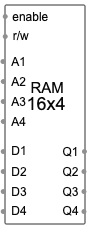
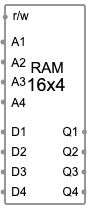
-empty-

diff --git a/shapes/data/global/digital/memory/16x4-RAM.js b/shapes/data/global/digital/memory/16x4-RAM.js
@@ -13,88 +13,82 @@ var digital_memory_16x4_RAM = CircuitFigure.extend({
    {
      var _this = this;
 
-     this._super( $.extend({stroke:0, bgColor:null, width:80,height:219},attr), setter, getter);
+     this._super( $.extend({stroke:0, bgColor:null, width:80,height:199},attr), setter, getter);
      var port;
      // input_a1
-     port = this.addPort(new DecoratedInputPort(), new draw2d.layout.locator.XYRelPortLocator({x: -2.5634765625, y: 25.816923515981735 }));
+     port = this.addPort(new DecoratedInputPort(), new draw2d.layout.locator.XYRelPortLocator({x: -2.5634765625, y: 18.5929648241206 }));
      port.setConnectionDirection(3);
      port.setBackgroundColor("#37B1DE");
      port.setName("input_a1");
      port.setMaxFanOut(1);
      // input_a2
-     port = this.addPort(new DecoratedInputPort(), new draw2d.layout.locator.XYRelPortLocator({x: -2.1327421875002983, y: 34.949343607305934 }));
+     port = this.addPort(new DecoratedInputPort(), new draw2d.layout.locator.XYRelPortLocator({x: -2.1327421875002983, y: 28.643216080402006 }));
      port.setConnectionDirection(3);
      port.setBackgroundColor("#37B1DE");
      port.setName("input_a2");
      port.setMaxFanOut(1);
      // input_a3
-     port = this.addPort(new DecoratedInputPort(), new draw2d.layout.locator.XYRelPortLocator({x: -2.2287421875000746, y: 44.081763698630134 }));
+     port = this.addPort(new DecoratedInputPort(), new draw2d.layout.locator.XYRelPortLocator({x: -2.2287421875000746, y: 38.69346733668341 }));
      port.setConnectionDirection(3);
      port.setBackgroundColor("#37B1DE");
      port.setName("input_a3");
      port.setMaxFanOut(1);
      // input_a4
-     port = this.addPort(new DecoratedInputPort(), new draw2d.layout.locator.XYRelPortLocator({x: -2.1327421875002983, y: 53.21418378995433 }));
+     port = this.addPort(new DecoratedInputPort(), new draw2d.layout.locator.XYRelPortLocator({x: -2.1327421875002983, y: 48.74371859296482 }));
      port.setConnectionDirection(3);
      port.setBackgroundColor("#37B1DE");
      port.setName("input_a4");
      port.setMaxFanOut(1);
      // input_d1
-     port = this.addPort(new DecoratedInputPort(), new draw2d.layout.locator.XYRelPortLocator({x: -2.2287421875000746, y: 66.91281392694063 }));
+     port = this.addPort(new DecoratedInputPort(), new draw2d.layout.locator.XYRelPortLocator({x: -2.2287421875000746, y: 63.81909547738693 }));
      port.setConnectionDirection(3);
      port.setBackgroundColor("#37B1DE");
      port.setName("input_d1");
      port.setMaxFanOut(1);
      // input_d2
-     port = this.addPort(new DecoratedInputPort(), new draw2d.layout.locator.XYRelPortLocator({x: -2.2327421875002074, y: 76.04523401826484 }));
+     port = this.addPort(new DecoratedInputPort(), new draw2d.layout.locator.XYRelPortLocator({x: -2.2327421875002074, y: 73.86934673366834 }));
      port.setConnectionDirection(3);
      port.setBackgroundColor("#37B1DE");
      port.setName("input_d2");
      port.setMaxFanOut(1);
      // input_d3
-     port = this.addPort(new DecoratedInputPort(), new draw2d.layout.locator.XYRelPortLocator({x: -2.2327421875002074, y: 85.17765410958904 }));
+     port = this.addPort(new DecoratedInputPort(), new draw2d.layout.locator.XYRelPortLocator({x: -2.2327421875002074, y: 83.91959798994974 }));
      port.setConnectionDirection(3);
      port.setBackgroundColor("#37B1DE");
      port.setName("input_d3");
      port.setMaxFanOut(1);
      // input_d4
-     port = this.addPort(new DecoratedInputPort(), new draw2d.layout.locator.XYRelPortLocator({x: -2.2327421875002074, y: 94.31007420091323 }));
+     port = this.addPort(new DecoratedInputPort(), new draw2d.layout.locator.XYRelPortLocator({x: -2.2327421875002074, y: 93.96984924623115 }));
      port.setConnectionDirection(3);
      port.setBackgroundColor("#37B1DE");
      port.setName("input_d4");
      port.setMaxFanOut(1);
-     // input_enable
-     port = this.addPort(new DecoratedInputPort(), new draw2d.layout.locator.XYRelPortLocator({x: 0.26725781249979264, y: 5.268978310502283 }));
-     port.setConnectionDirection(3);
-     port.setBackgroundColor("#37B1DE");
-     port.setName("input_enable");
-     port.setMaxFanOut(1);
      // output_q1
-     port = this.addPort(new DecoratedOutputPort(), new draw2d.layout.locator.XYRelPortLocator({x: 99.3115234375, y: 66.91281392694063 }));
+     port = this.addPort(new DecoratedOutputPort(), new draw2d.layout.locator.XYRelPortLocator({x: 99.3115234375, y: 63.81909547738693 }));
      port.setConnectionDirection(1);
      port.setBackgroundColor("#37B1DE");
      port.setName("output_q1");
      port.setMaxFanOut(20);
      // output_q2
-     port = this.addPort(new DecoratedOutputPort(), new draw2d.layout.locator.XYRelPortLocator({x: 98.6865234375, y: 76.04523401826484 }));
+     port = this.addPort(new DecoratedOutputPort(), new draw2d.layout.locator.XYRelPortLocator({x: 98.6865234375, y: 73.86934673366834 }));
      port.setConnectionDirection(1);
      port.setBackgroundColor("#37B1DE");
      port.setName("output_q2");
      port.setMaxFanOut(20);
      // output_q3
-     port = this.addPort(new DecoratedOutputPort(), new draw2d.layout.locator.XYRelPortLocator({x: 98.6865234375, y: 85.17765410958904 }));
+     port = this.addPort(new DecoratedOutputPort(), new draw2d.layout.locator.XYRelPortLocator({x: 98.6865234375, y: 83.91959798994974 }));
      port.setConnectionDirection(1);
      port.setBackgroundColor("#37B1DE");
      port.setName("output_q3");
      port.setMaxFanOut(20);
      // output_q4
-     port = this.addPort(new DecoratedOutputPort(), new draw2d.layout.locator.XYRelPortLocator({x: 98.6865234375, y: 94.31007420091323 }));
+     port = this.addPort(new DecoratedOutputPort(), new draw2d.layout.locator.XYRelPortLocator({x: 98.6865234375, y: 93.96984924623115 }));
      port.setConnectionDirection(1);
      port.setBackgroundColor("#37B1DE");
      port.setName("output_q4");
      port.setMaxFanOut(20);
      // input_rw
-     port = this.addPort(new DecoratedInputPort(), new draw2d.layout.locator.XYRelPortLocator({x: 0.26725781249979264, y: 14.401398401826484 }));
+     port = this.addPort(new DecoratedInputPort(), new draw2d.layout.locator.XYRelPortLocator({x: 0.26725781249979264, y: 6.030150753768844 }));
      port.setConnectionDirection(3);
      port.setBackgroundColor("#37B1DE");
      port.setName("input_rw");
@@ -105,7 +99,7 @@ var digital_memory_16x4_RAM = CircuitFigure.extend({
    {
       var shape = this._super();
       this.originalWidth = 80;
-      this.originalHeight= 219;
+      this.originalHeight= 199;
       return shape;
    },
 
@@ -114,93 +108,88 @@ var digital_memory_16x4_RAM = CircuitFigure.extend({
        this.canvas.paper.setStart();
        var shape = null;
        // BoundingBox
-       shape = this.canvas.paper.path("M0,0 L80,0 L80,219 L0,219");
+       shape = this.canvas.paper.path("M0,0 L80,0 L80,199 L0,199");
        shape.attr({"stroke":"none","stroke-width":0,"fill":"none"});
        shape.data("name","BoundingBox");
        
        // Rectangle
-       shape = this.canvas.paper.path('M0,1Q0,0 1, 0L79,0Q80,0 80, 1L80,218Q80,219 79, 219L1,219Q0,219 0, 218L0,1');
+       shape = this.canvas.paper.path('M0,1Q0,0 1, 0L79,0Q80,0 80, 1L80,198Q80,199 79, 199L1,199Q0,199 0, 198L0,1');
        shape.attr({"stroke":"rgba(48,48,48,1)","stroke-width":1,"fill":"rgba(255,255,255,1)","dasharray":null,"stroke-dasharray":null,"opacity":1});
        shape.data("name","Rectangle");
        
        // Label
        shape = this.canvas.paper.text(0,0,'A1');
-       shape.attr({"x":6.21700624999994,"y":56.75,"text-anchor":"start","text":"A1","font-family":"\"Arial\"","font-size":12,"stroke":"#000000","fill":"#080808","stroke-scale":true,"font-weight":"normal","stroke-width":0,"opacity":1});
+       shape.attr({"x":6.21700624999994,"y":37.2109375,"text-anchor":"start","text":"A1","font-family":"\"Arial\"","font-size":12,"stroke":"#000000","fill":"#080808","stroke-scale":true,"font-weight":"normal","stroke-width":0,"opacity":1});
        shape.data("name","Label");
        
        // Label
        shape = this.canvas.paper.text(0,0,'A2');
-       shape.attr({"x":6.21700624999994,"y":76.875,"text-anchor":"start","text":"A2","font-family":"\"Arial\"","font-size":12,"stroke":"#000000","fill":"#080808","stroke-scale":true,"font-weight":"normal","stroke-width":0,"opacity":1});
+       shape.attr({"x":6.21700624999994,"y":57.3359375,"text-anchor":"start","text":"A2","font-family":"\"Arial\"","font-size":12,"stroke":"#000000","fill":"#080808","stroke-scale":true,"font-weight":"normal","stroke-width":0,"opacity":1});
        shape.data("name","Label");
        
        // Label
        shape = this.canvas.paper.text(0,0,'Q1');
-       shape.attr({"x":57.40450624999994,"y":146.453125,"text-anchor":"start","text":"Q1","font-family":"\"Arial\"","font-size":12,"stroke":"#000000","fill":"#080808","stroke-scale":true,"font-weight":"normal","stroke-width":0,"opacity":1});
+       shape.attr({"x":57.40450624999994,"y":126.9140625,"text-anchor":"start","text":"Q1","font-family":"\"Arial\"","font-size":12,"stroke":"#000000","fill":"#080808","stroke-scale":true,"font-weight":"normal","stroke-width":0,"opacity":1});
        shape.data("name","Label");
        
        // Label
        shape = this.canvas.paper.text(0,0,'A3');
-       shape.attr({"x":6.21700624999994,"y":96.484375,"text-anchor":"start","text":"A3","font-family":"\"Arial\"","font-size":12,"stroke":"#000000","fill":"#080808","stroke-scale":true,"font-weight":"normal","stroke-width":0,"opacity":1});
+       shape.attr({"x":6.21700624999994,"y":76.9453125,"text-anchor":"start","text":"A3","font-family":"\"Arial\"","font-size":12,"stroke":"#000000","fill":"#080808","stroke-scale":true,"font-weight":"normal","stroke-width":0,"opacity":1});
        shape.data("name","Label");
        
        // Label
        shape = this.canvas.paper.text(0,0,'Q3');
-       shape.attr({"x":57.40450624999994,"y":186.6242999999995,"text-anchor":"start","text":"Q3","font-family":"\"Arial\"","font-size":12,"stroke":"#000000","fill":"#080808","stroke-scale":true,"font-weight":"normal","stroke-width":0,"opacity":1});
+       shape.attr({"x":57.40450624999994,"y":167.0852374999995,"text-anchor":"start","text":"Q3","font-family":"\"Arial\"","font-size":12,"stroke":"#000000","fill":"#080808","stroke-scale":true,"font-weight":"normal","stroke-width":0,"opacity":1});
        shape.data("name","Label");
        
        // Label
        shape = this.canvas.paper.text(0,0,'Q2');
-       shape.attr({"x":57.40450624999994,"y":166.5,"text-anchor":"start","text":"Q2","font-family":"\"Arial\"","font-size":12,"stroke":"#000000","fill":"#080808","stroke-scale":true,"font-weight":"normal","stroke-width":0,"opacity":1});
+       shape.attr({"x":57.40450624999994,"y":146.9609375,"text-anchor":"start","text":"Q2","font-family":"\"Arial\"","font-size":12,"stroke":"#000000","fill":"#080808","stroke-scale":true,"font-weight":"normal","stroke-width":0,"opacity":1});
        shape.data("name","Label");
        
        // Label
        shape = this.canvas.paper.text(0,0,'D2');
-       shape.attr({"x":6.21700624999994,"y":166.5,"text-anchor":"start","text":"D2","font-family":"\"Arial\"","font-size":12,"stroke":"#000000","fill":"#080808","stroke-scale":true,"font-weight":"normal","stroke-width":0,"opacity":1});
+       shape.attr({"x":6.21700624999994,"y":146.9609375,"text-anchor":"start","text":"D2","font-family":"\"Arial\"","font-size":12,"stroke":"#000000","fill":"#080808","stroke-scale":true,"font-weight":"normal","stroke-width":0,"opacity":1});
        shape.data("name","Label");
        
        // Label
        shape = this.canvas.paper.text(0,0,'D1');
-       shape.attr({"x":6.21700624999994,"y":145.953125,"text-anchor":"start","text":"D1","font-family":"\"Arial\"","font-size":12,"stroke":"#000000","fill":"#080808","stroke-scale":true,"font-weight":"normal","stroke-width":0,"opacity":1});
+       shape.attr({"x":6.21700624999994,"y":126.4140625,"text-anchor":"start","text":"D1","font-family":"\"Arial\"","font-size":12,"stroke":"#000000","fill":"#080808","stroke-scale":true,"font-weight":"normal","stroke-width":0,"opacity":1});
        shape.data("name","Label");
        
        // Label
        shape = this.canvas.paper.text(0,0,'A4');
-       shape.attr({"x":6.21700624999994,"y":116.97956250000061,"text-anchor":"start","text":"A4","font-family":"\"Arial\"","font-size":12,"stroke":"#000000","fill":"#080808","stroke-scale":true,"font-weight":"normal","stroke-width":0,"opacity":1});
+       shape.attr({"x":6.21700624999994,"y":97.44050000000061,"text-anchor":"start","text":"A4","font-family":"\"Arial\"","font-size":12,"stroke":"#000000","fill":"#080808","stroke-scale":true,"font-weight":"normal","stroke-width":0,"opacity":1});
        shape.data("name","Label");
        
        // Label
        shape = this.canvas.paper.text(0,0,'D3');
-       shape.attr({"x":6.21700624999994,"y":186.6242999999995,"text-anchor":"start","text":"D3","font-family":"\"Arial\"","font-size":12,"stroke":"#000000","fill":"#080808","stroke-scale":true,"font-weight":"normal","stroke-width":0,"opacity":1});
+       shape.attr({"x":6.21700624999994,"y":167.0852374999995,"text-anchor":"start","text":"D3","font-family":"\"Arial\"","font-size":12,"stroke":"#000000","fill":"#080808","stroke-scale":true,"font-weight":"normal","stroke-width":0,"opacity":1});
        shape.data("name","Label");
        
        // Label
        shape = this.canvas.paper.text(0,0,'D4');
-       shape.attr({"x":6.293806249999761,"y":206.15625,"text-anchor":"start","text":"D4","font-family":"\"Arial\"","font-size":12,"stroke":"#000000","fill":"#080808","stroke-scale":true,"font-weight":"normal","stroke-width":0,"opacity":1});
+       shape.attr({"x":6.293806249999761,"y":186.6171875,"text-anchor":"start","text":"D4","font-family":"\"Arial\"","font-size":12,"stroke":"#000000","fill":"#080808","stroke-scale":true,"font-weight":"normal","stroke-width":0,"opacity":1});
        shape.data("name","Label");
        
        // Label
        shape = this.canvas.paper.text(0,0,'Q4');
-       shape.attr({"x":57.56075624999994,"y":205.9795625000006,"text-anchor":"start","text":"Q4","font-family":"\"Arial\"","font-size":12,"stroke":"#000000","fill":"#080808","stroke-scale":true,"font-weight":"normal","stroke-width":0,"opacity":1});
+       shape.attr({"x":57.56075624999994,"y":186.4405000000006,"text-anchor":"start","text":"Q4","font-family":"\"Arial\"","font-size":12,"stroke":"#000000","fill":"#080808","stroke-scale":true,"font-weight":"normal","stroke-width":0,"opacity":1});
        shape.data("name","Label");
        
        // Label
        shape = this.canvas.paper.text(0,0,'16x4');
-       shape.attr({"x":21.59765625,"y":98.984375,"text-anchor":"start","text":"16x4","font-family":"\"Arial\"","font-size":18,"stroke":"#000000","fill":"#080808","stroke-scale":true,"font-weight":"normal","stroke-width":0,"opacity":1});
-       shape.data("name","Label");
-       
-       // Label
-       shape = this.canvas.paper.text(0,0,'enable');
-       shape.attr({"x":7.218363805389345,"y":11.254799999999705,"text-anchor":"start","text":"enable","font-family":"\"Arial\"","font-size":12,"stroke":"#000000","fill":"#080808","stroke-scale":true,"font-weight":"normal","stroke-width":0,"opacity":1});
+       shape.attr({"x":21.59765625,"y":79.4453125,"text-anchor":"start","text":"16x4","font-family":"\"Arial\"","font-size":18,"stroke":"#000000","fill":"#080808","stroke-scale":true,"font-weight":"normal","stroke-width":0,"opacity":1});
        shape.data("name","Label");
        
        // Label
        shape = this.canvas.paper.text(0,0,'RAM');
-       shape.attr({"x":25.41427187499994,"y":82.375,"text-anchor":"start","text":"RAM","font-family":"\"Arial\"","font-size":15,"stroke":"#000000","fill":"#080808","stroke-scale":true,"font-weight":"normal","stroke-width":0,"opacity":1});
+       shape.attr({"x":25.41427187499994,"y":62.8359375,"text-anchor":"start","text":"RAM","font-family":"\"Arial\"","font-size":15,"stroke":"#000000","fill":"#080808","stroke-scale":true,"font-weight":"normal","stroke-width":0,"opacity":1});
        shape.data("name","Label");
        
        // Label
        shape = this.canvas.paper.text(0,0,'r/w');
-       shape.attr({"x":7.713806249999834,"y":30.2890625,"text-anchor":"start","text":"r/w","font-family":"\"Arial\"","font-size":12,"stroke":"#000000","fill":"#080808","stroke-scale":true,"font-weight":"normal","stroke-width":0,"opacity":1});
+       shape.attr({"x":7.713806249999834,"y":10.75,"text-anchor":"start","text":"r/w","font-family":"\"Arial\"","font-size":12,"stroke":"#000000","fill":"#080808","stroke-scale":true,"font-weight":"normal","stroke-width":0,"opacity":1});
        shape.data("name","Label");
        
 
@@ -234,42 +223,25 @@ digital_memory_16x4_RAM = digital_memory_16x4_RAM.extend({
      **/
     calculate:function()
     {
-        var input = [];
-        var output = [];
+        let rw = this.getInputPort("input_rw").getBooleanValue();
         
         let addr =   this.getInputPort("input_a1").getBooleanValue();
         addr    += 2*this.getInputPort("input_a2").getBooleanValue();
         addr    += 4*this.getInputPort("input_a3").getBooleanValue();
         addr    += 8*this.getInputPort("input_a4").getBooleanValue();
 
-        input.push(this.getInputPort("input_d1").getBooleanValue());
-        input.push(this.getInputPort("input_d2").getBooleanValue());
-        input.push(this.getInputPort("input_d3").getBooleanValue());
-        input.push(this.getInputPort("input_d4").getBooleanValue());
- 
-         input.push(this.getInputPort("input_c").getBooleanValue());
- 
-        this.getOutputPort("output_s1").setValue(output[0]);
-        this.getOutputPort("output_s2").setValue(output[1]);
-        this.getOutputPort("output_s3").setValue(output[2]);
-        this.getOutputPort("output_s4").setValue(output[3]);
-        this.getOutputPort("output_c").setValue(output[4]);
-    },
+        let data = this.ram[addr]
+        if(rw){
+            data =   this.getInputPort("input_d1").getBooleanValue();
+            data    += 2*this.getInputPort("input_d2").getBooleanValue();
+            data    += 4*this.getInputPort("input_d3").getBooleanValue();
+            data    += 8*this.getInputPort("input_d4").getBooleanValue();
+            this.ram[addr] = data
+        }
 
-
-    /**
-     *  Called if the simulation mode is starting
-     *  @required
-     **/
-    onStart:function()
-    {
-    },
-
-    /**
-     *  Called if the simulation mode is stopping
-     *  @required
-     **/
-    onStop:function()
-    {
+        this.getOutputPort("output_q1").setValue(data & 1);
+        this.getOutputPort("output_q2").setValue(data & 2);
+        this.getOutputPort("output_q3").setValue(data & 4);
+        this.getOutputPort("output_q4").setValue(data & 8);
     }
 });
